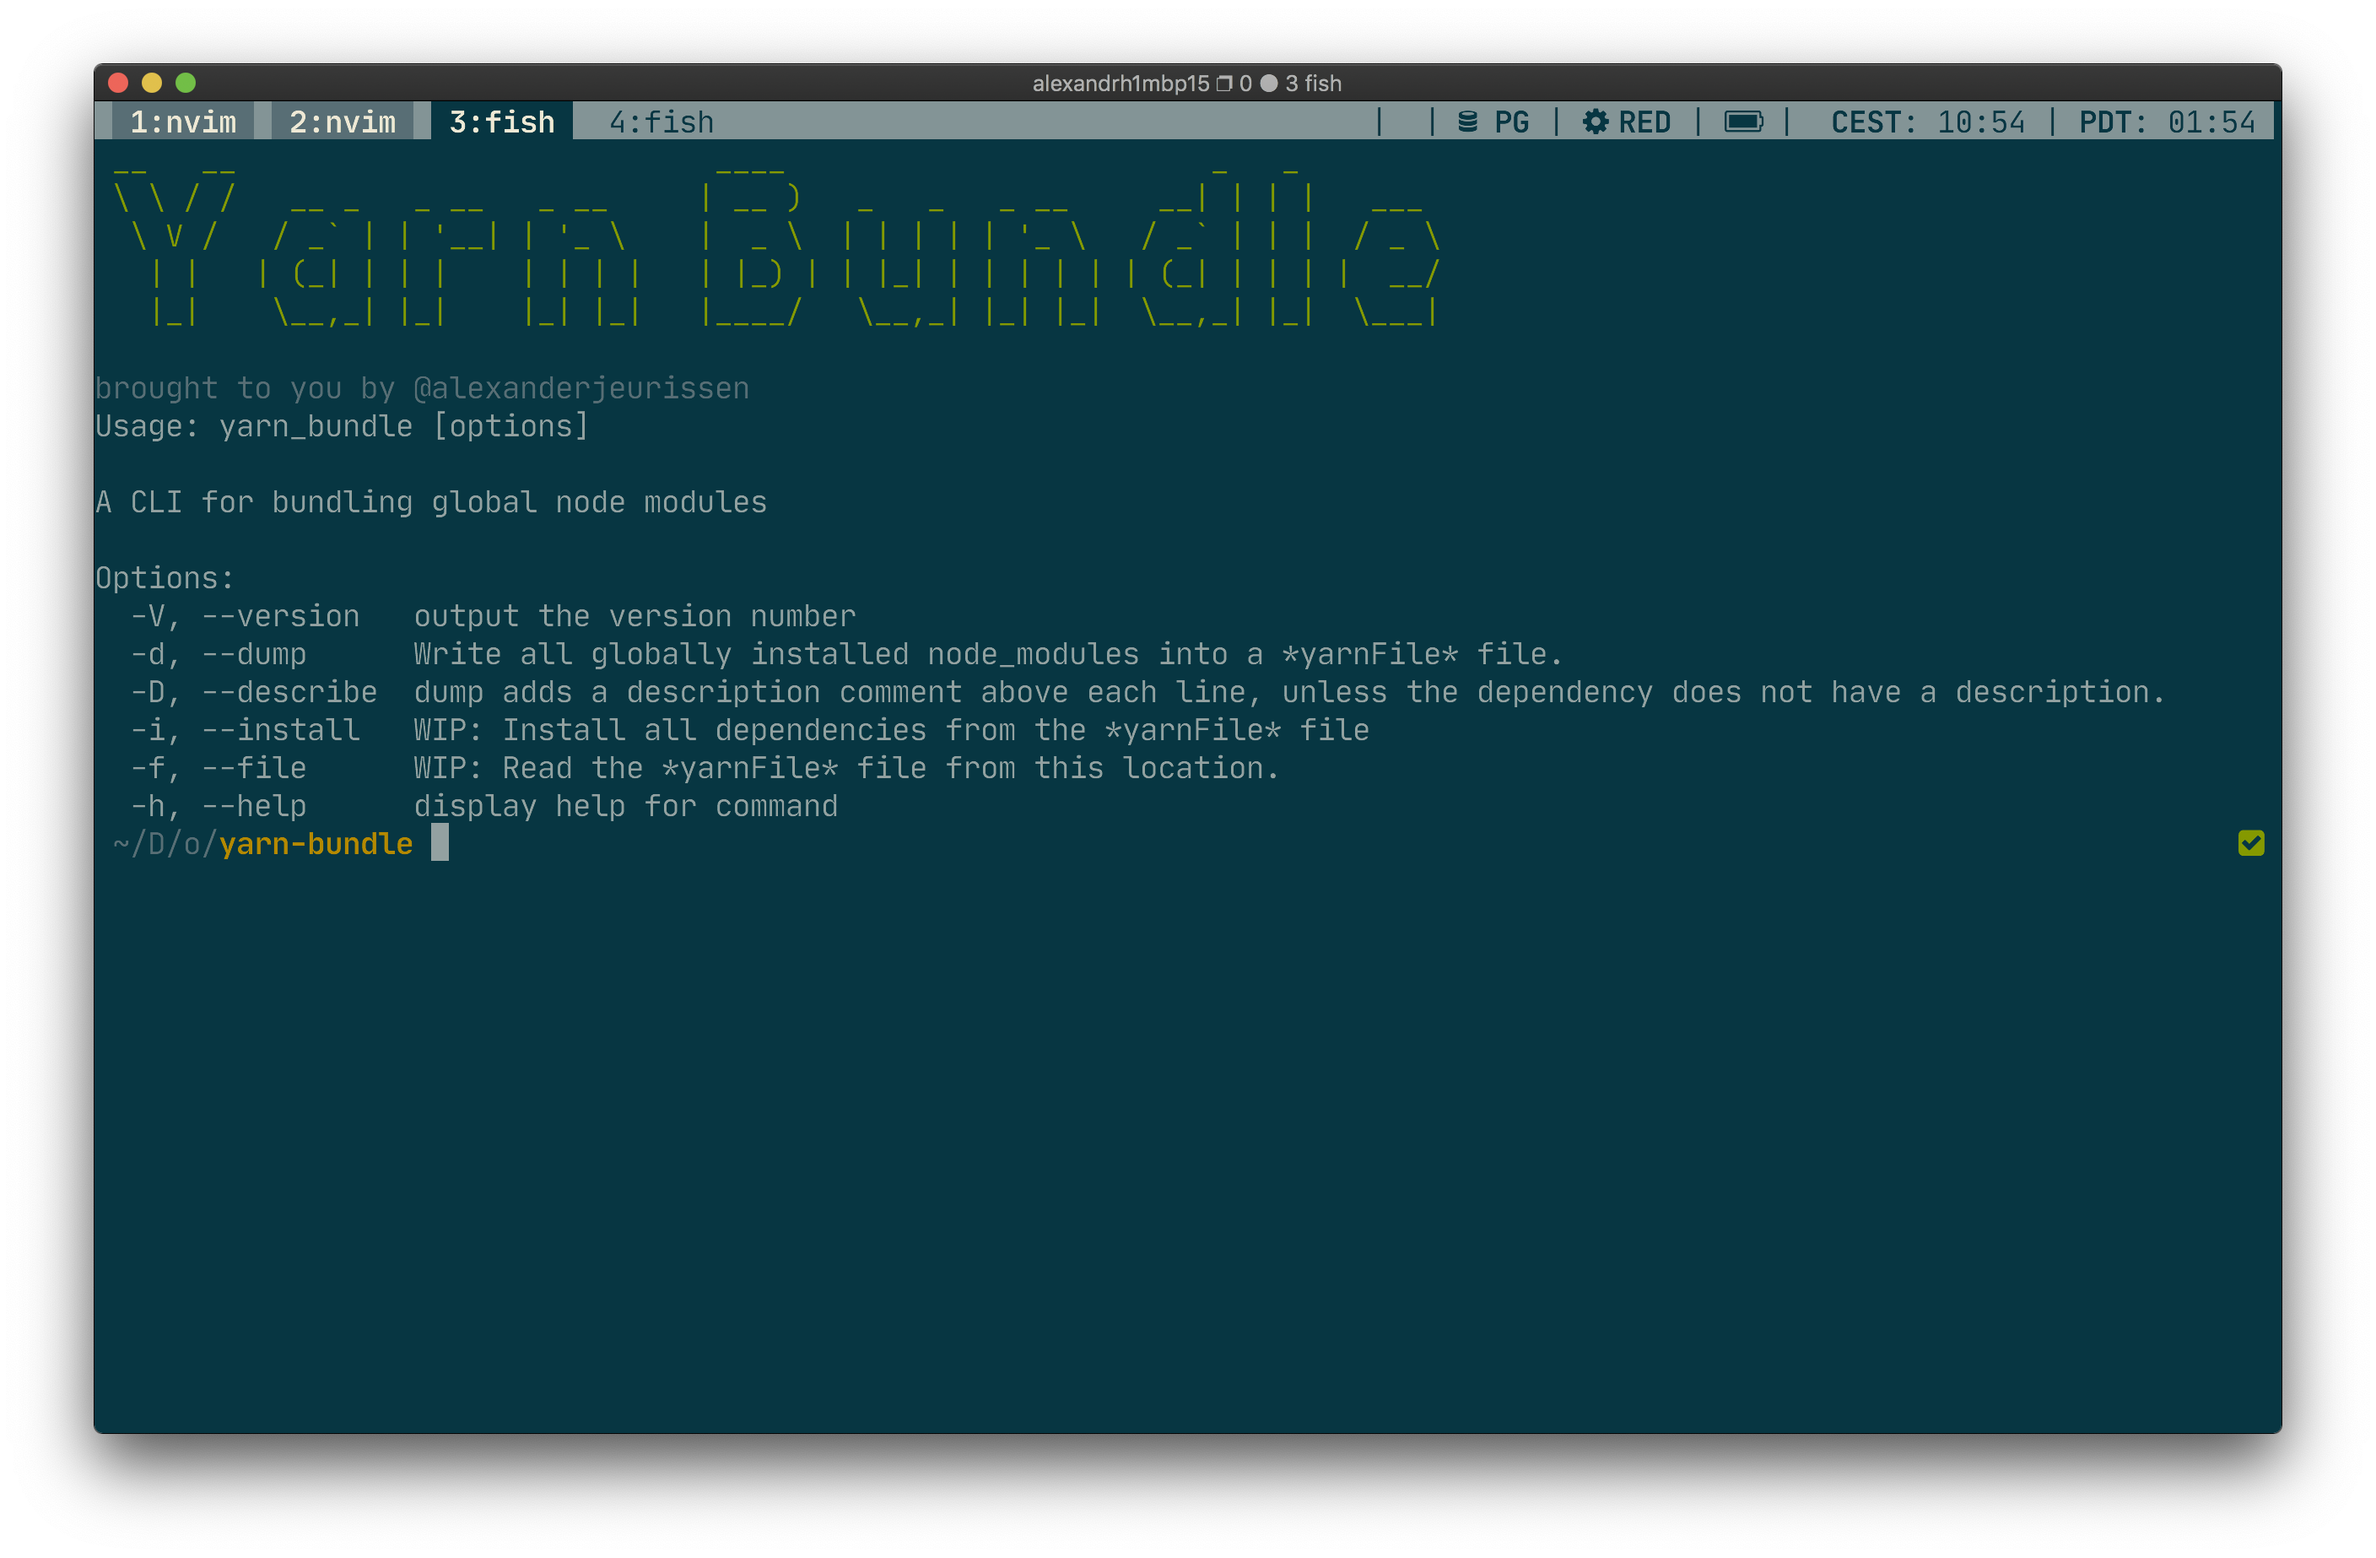
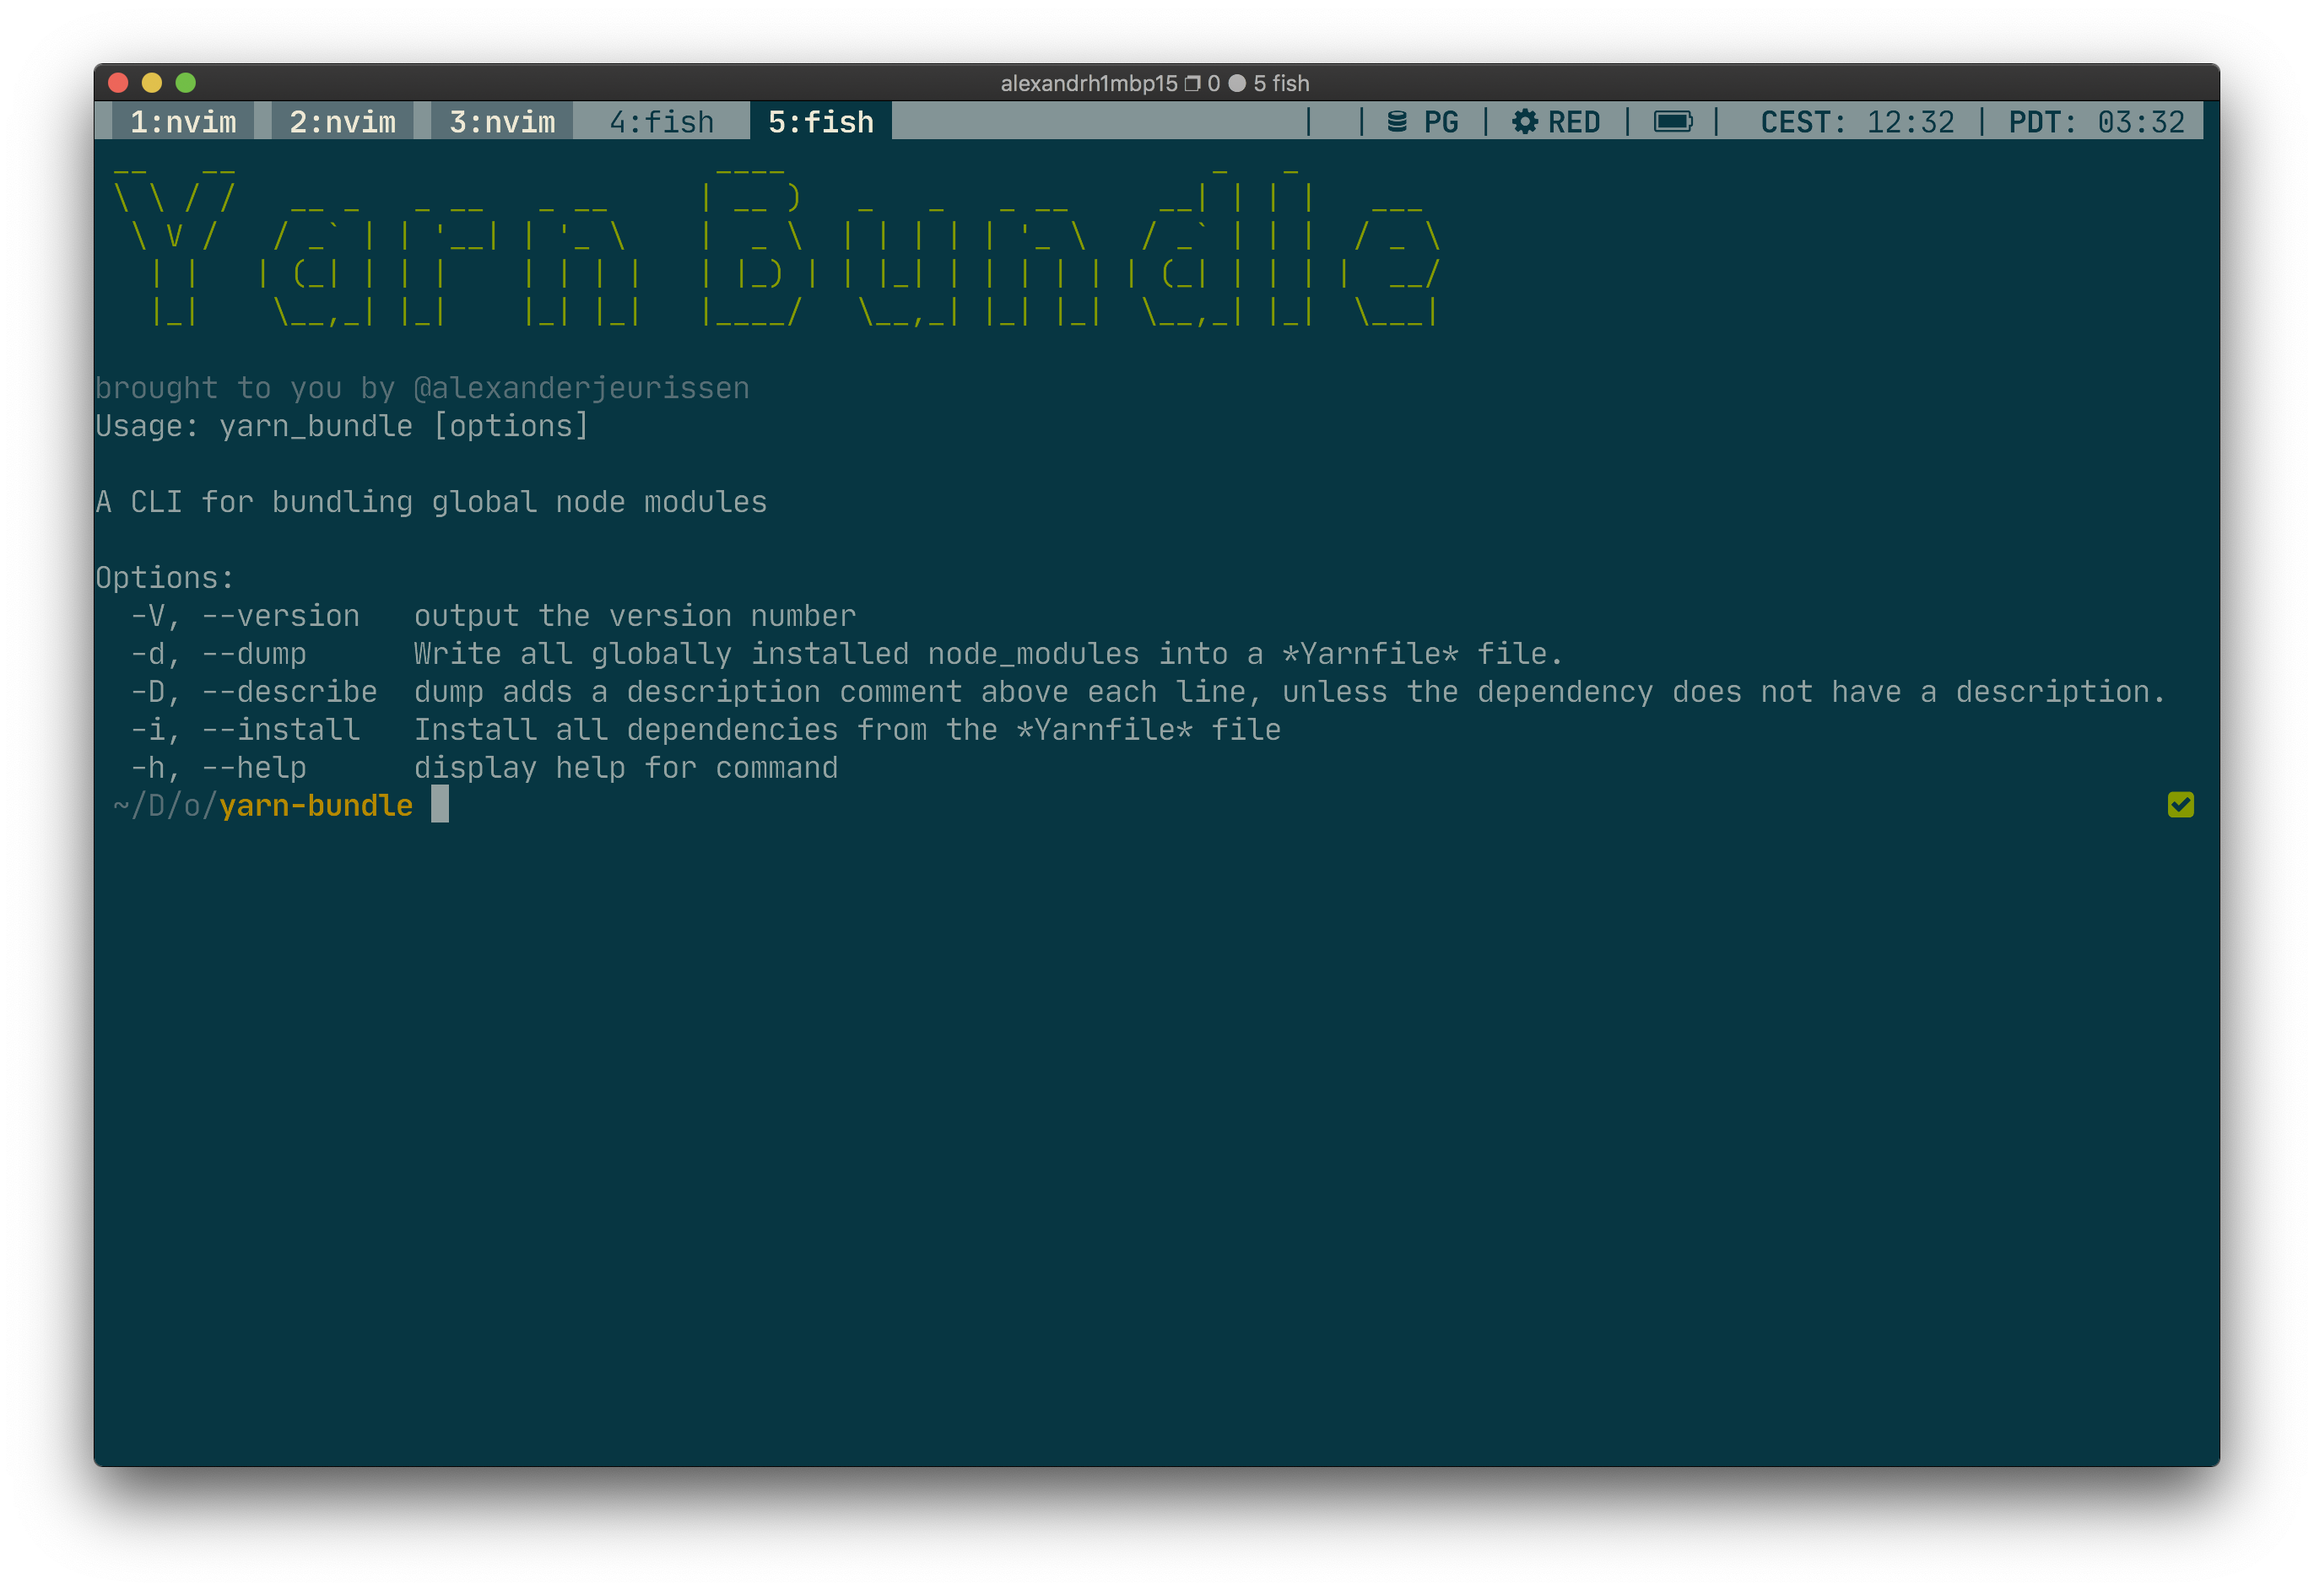
update README

diff --git a/src/yarn_bundle.ts b/src/yarn_bundle.ts
@@ -26,11 +26,7 @@ program
     "-D, --describe",
     "dump adds a description comment above each line, unless the dependency does not have a description."
   )
-  .option(
-    "-i, --install",
-    "WIP: Install all dependencies from the *Yarnfile* file"
-  )
-  .option("-f, --file", "WIP: Read the *Yarnfile* file from this location.")
+  .option("-i, --install", "Install all dependencies from the *Yarnfile* file")
   .parse(process.argv);
 
 const Dump = async (options: ObjType) => {

diff --git a/README.md b/README.md
@@ -21,8 +21,7 @@ Options:
   -V, --version   output the version number
   -d, --dump      Write all globally installed node_modules into a *yarnFile* file.
   -D, --describe  dump adds a description comment above each line, unless the dependency does not have a description.
-  -i, --install   WIP: Install all dependencies from the *yarnFile* file
-  -f, --file      WIP: Read the *yarnFile* file from this location.
+  -i, --install   Install all dependencies from the *yarnFile* file
   -h, --help      display help for command
 ```
 
